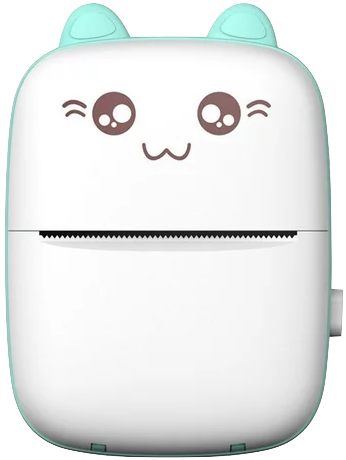
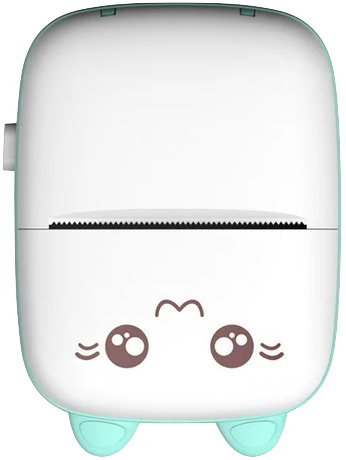
WIP: Turn printer upside-down to reflect real orientation. Print dynamically

diff --git a/Browsereceipt/ViewController.swift b/Browsereceipt/ViewController.swift
@@ -12,7 +12,9 @@ import PythonKit
 class ViewController: NSViewController, WKNavigationDelegate, WKScriptMessageHandler {
     @IBOutlet weak var webView: WKWebView!
     
+    var io: PythonObject!
     var driver: PythonObject!
+    var tiffUrl: URL?
     
     override func viewDidLoad() {
         super.viewDidLoad()
@@ -20,6 +22,7 @@ class ViewController: NSViewController, WKNavigationDelegate, WKScriptMessageHan
         // Set up the Python
         let sys = Python.import("sys")
         let os = Python.import("os")
+        self.io = Python.import("io")
         sys.path.append("/Users/osnr/aux/Cat-Printer")
         os.chdir("/Users/osnr/aux/Cat-Printer")
         let printer = Python.import("printer")
@@ -33,32 +36,49 @@ class ViewController: NSViewController, WKNavigationDelegate, WKScriptMessageHan
         self.webView.load(URLRequest(url: URL(string: "https://en.m.wikipedia.org/wiki/Receipt")!))
         self.webView.navigationDelegate = self
     }
+    var lastToY: Int = 0
+    func printPage(fromY: Int, toY: Int) {
+        guard let tiffUrl = self.tiffUrl else { return }
+        var startY = fromY
+        if lastToY > startY { startY = lastToY }
+    
+        lastToY = toY
+
+        let task = Process()
+        
+        let directory = NSTemporaryDirectory()
+        let fileName = NSUUID().uuidString + ".pbm"
+        guard let tempPbm = NSURL.fileURL(withPathComponents: [directory, fileName]) else { return }
+        
+        task.launchPath = "/opt/homebrew/bin/convert"
+        task.arguments = [tiffUrl.path(),
+                          "-crop", "x\(toY - startY)+0+\(startY)",
+                          "-resize", "384x",
+                          tempPbm.path()]
+        task.launch()
+        task.waitUntilExit()
+        
+        print("PRINTPAGE \(startY) \(toY) \(tempPbm.path())")
+        
+        guard let pbmData = NSData(contentsOf: tempPbm) else { return }
+        self.driver.print(io.BytesIO(PythonBytes(pbmData)), mode: "pbm")
+            // driver.print(io.BytesIO(PythonBytes(pbmData)), mode: "pbm")
+        
+    }
     func webView(
         _ webView: WKWebView,
         didFinish navigation: WKNavigation!
     ) {
         print("Finished nav")
         
-        let io = Python.import("io")
-        
-        // TODO: Report entire PDF of rendered page to us
         webView.takeSnapshot(with: nil) { im, err in
             guard let tiff = im?.tiffRepresentation else { return }
             let directory = NSTemporaryDirectory()
             let fileName = NSUUID().uuidString
-            guard let temp = NSURL.fileURL(withPathComponents: [directory, fileName]) else { return }
-            guard ((try? tiff.write(to: temp)) != nil) else { return }
-            let task = Process()
-            let tempPbm = temp.deletingPathExtension().appendingPathExtension("pbm")
-            task.launchPath = "/opt/homebrew/bin/convert"
-            task.arguments = [temp.path(), "-resize", "384x", tempPbm.path()]
-            task.launch()
-            task.waitUntilExit()
-            print(tempPbm)
-            
-            guard let pbmData = NSData(contentsOf: tempPbm) else { return }
-            self.driver.print(io.BytesIO(PythonBytes(pbmData)), mode: "pbm")
-                // driver.print(io.BytesIO(PythonBytes(pbmData)), mode: "pbm")
+            self.tiffUrl = NSURL.fileURL(withPathComponents: [directory, fileName])
+            if let tiffUrl = self.tiffUrl {
+                try? tiff.write(to: tiffUrl)
+            }
         }
         
         webView.configuration.userContentController.add(self, name:"didScroll")
@@ -74,6 +94,9 @@ window.addEventListener("scroll", (event) => {
        if message.name == "didScroll" {
            print(message.body)
            // FIXME: Write a slice of the page snapshot bitmap to disk, then dispatch it to the Python
+           guard let body = message.body as? NSNumber else { return }
+           let toY = Int(truncating: body)
+           printPage(fromY: 0, toY: toY)
        }
     }
 
